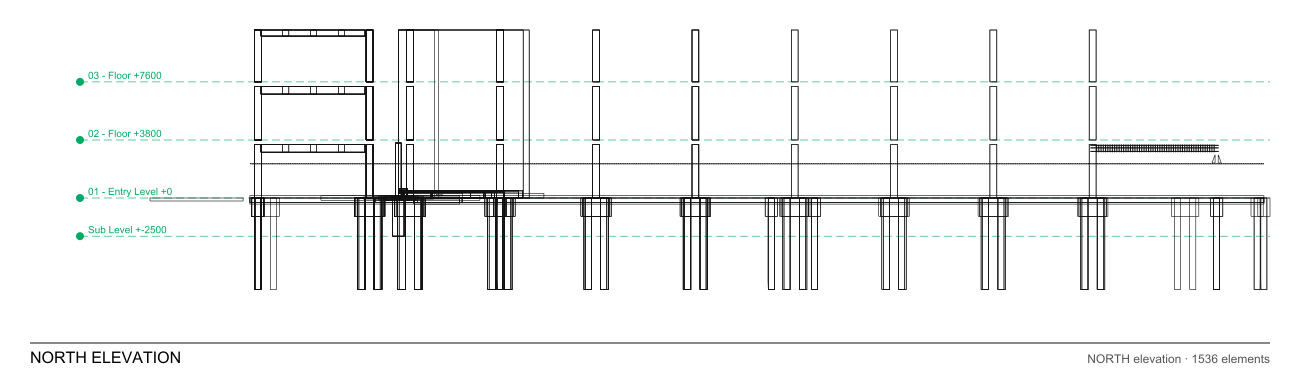
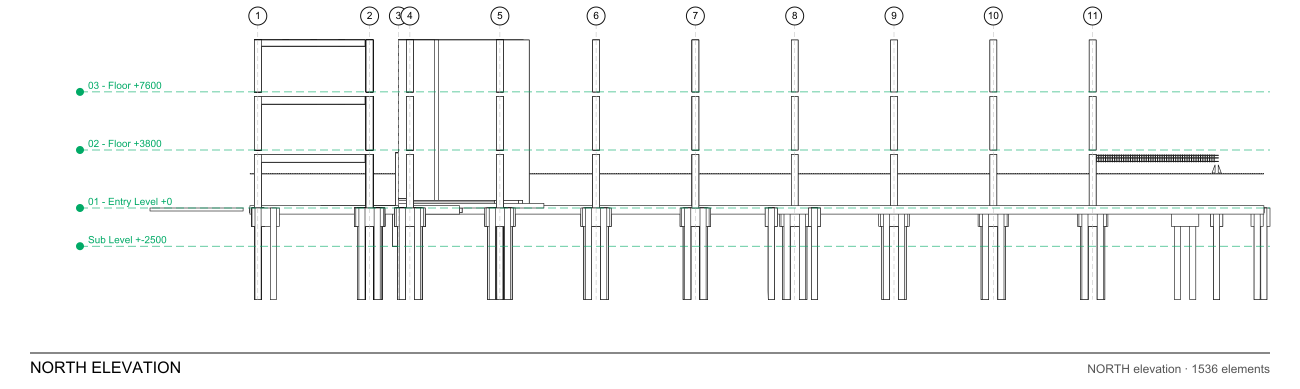
Elevations: hidden-line removal + grid bubbles
- drawings.py: elevation now uses a depth-sorted painter's algorithm (opaque white
  silhouettes; nearer elements occlude farther ones) for hidden-line removal, and
  draws grid bubbles (numbered for N/S, lettered for E/W) aligned to the derived
  column grid, plus the storey level datums on top. Top margin added for bubbles.
- docs/img/elevation_north.png regenerated; capability-matrix updated (HLR done).

Verified: north elevation renders the structural frame solid with hidden lines
removed, grid 1-11 over the columns, 4 storey levels.

diff --git a/services/data/src/aec_data/drawings.py b/services/data/src/aec_data/drawings.py
@@ -257,18 +257,19 @@ def plan_svg(model: ifcopenshell.file, elevation: float, cut_height: float = 1.2
 
 
 # --- elevations (orthographic outline projections) --------------------------
-# direction -> (projected horizontal axis, vertical axis=Z, flip horizontal?)
+# direction -> (kept axes, flip horizontal?, depth axis, near sign)
 _DIRS = {
-    "north": ((0, 2), False), "south": ((0, 2), True),   # look along Y, draw X/Z
-    "east": ((1, 2), True), "west": ((1, 2), False),     # look along X, draw Y/Z
+    "north": ((0, 2), False, 1, +1), "south": ((0, 2), True, 1, -1),   # look along Y, draw X/Z
+    "east": ((1, 2), True, 0, +1), "west": ((1, 2), False, 0, -1),     # look along X, draw Y/Z
 }
 
 
-def elevation_outlines(meshes, direction: str):
-    """Element silhouettes (convex hull of projected vertices) for an orthographic view."""
+def elevation_outlines(meshes, direction: str, with_depth: bool = False):
+    """Element silhouettes (convex hull of projected vertices). With with_depth, also returns
+    a painter's-algorithm sort key (far→near) per element for hidden-line removal."""
     from shapely.geometry import MultiPoint
 
-    axes, flip = _DIRS.get(direction, _DIRS["north"])
+    axes, flip, depth_axis, near = _DIRS.get(direction, _DIRS["north"])
     outs = []
     for _cls, mesh in meshes:
         pts = mesh.vertices[:, axes]
@@ -276,11 +277,16 @@ def elevation_outlines(meshes, direction: str):
             continue
         try:
             hull = MultiPoint(pts).convex_hull
-            if hull.geom_type == "Polygon":
-                coords = np.asarray(hull.exterior.coords)
-                if flip:
-                    coords = coords.copy()
-                    coords[:, 0] = -coords[:, 0]
+            if hull.geom_type != "Polygon":
+                continue
+            coords = np.asarray(hull.exterior.coords)
+            if flip:
+                coords = coords.copy()
+                coords[:, 0] = -coords[:, 0]
+            if with_depth:
+                depth = near * float(mesh.vertices[:, depth_axis].mean())  # larger = nearer
+                outs.append((coords, depth))
+            else:
                 outs.append(coords)
         except Exception:
             pass
@@ -288,19 +294,21 @@ def elevation_outlines(meshes, direction: str):
 
 
 def elevation_svg(meshes, direction: str, levels: list[dict], title: str,
-                  width: int = 1300) -> str:
-    outs = elevation_outlines(meshes, direction)
-    if not outs:
+                  width: int = 1300, hidden_line: bool = True, grid: dict | None = None) -> str:
+    items = elevation_outlines(meshes, direction, with_depth=True)
+    if not items:
         return to_svg([], title=title, subtitle="no geometry")
+    items.sort(key=lambda it: it[1])  # far → near (painter's algorithm)
+    outs = [c for c, _ in items]
     allp = np.vstack(outs)
     mn, mx = allp.min(axis=0), allp.max(axis=0)
     span = np.maximum(mx - mn, 1e-6)
-    gutter, pad = 120, 30
+    gutter, pad, top = 120, 30, 40  # `top` leaves room for grid bubbles
     draw_w = width - 2 * pad - gutter
     scale = draw_w / span[0]
     draw_h = span[1] * scale
-    height = int(draw_h + 2 * pad + 60)
-    ox, oy = pad + gutter, pad
+    height = int(draw_h + pad + top + 60)
+    ox, oy = pad + gutter, top
 
     def T(x, z):
         return ox + (x - mn[0]) * scale, oy + draw_h - (z - mn[1]) * scale
@@ -309,8 +317,29 @@ def elevation_svg(meshes, direction: str, levels: list[dict], title: str,
            f'<svg xmlns="http://www.w3.org/2000/svg" width="{width}" height="{height}" '
            f'viewBox="0 0 {width} {height}"><rect width="{width}" height="{height}" fill="#fff"/>']
 
-    # storey level lines (Z) — standard elevation annotation
-    flip = _DIRS.get(direction, _DIRS["north"])[1]
+    # geometry first — painter's algorithm: opaque white fill so nearer silhouettes
+    # occlude farther edges (hidden-line removal)
+    fill = "#fff" if hidden_line else "none"
+    for poly in outs:
+        pp = " ".join(f"{T(p[0], p[1])[0]:.1f},{T(p[0], p[1])[1]:.1f}" for p in poly)
+        out.append(f'<polygon points="{pp}" fill="{fill}" stroke="#111" stroke-width="0.6"/>')
+
+    # grid bubbles on top: N/S elevations show the numbered (X) grid, E/W the lettered (Y)
+    _, gflip, depth_axis, _ = _DIRS.get(direction, _DIRS["north"])
+    if grid:
+        glines = grid["x"] if depth_axis == 1 else grid["y"]   # depth Y → horizontal X
+        for g, label in glines:
+            h = -g if gflip else g
+            if h < mn[0] - 0.5 or h > mx[0] + 0.5:
+                continue
+            gx, _ = T(h, mn[1])
+            out.append(f'<line x1="{gx:.1f}" y1="{oy-24:.1f}" x2="{gx:.1f}" y2="{oy+draw_h:.1f}" '
+                       f'stroke="#bbb" stroke-width="0.5" stroke-dasharray="5 3"/>')
+            out.append(f'<circle cx="{gx:.1f}" cy="{oy-24:.1f}" r="9" fill="#fff" stroke="#111"/>'
+                       f'<text x="{gx:.1f}" y="{oy-21:.1f}" text-anchor="middle" '
+                       f'font-family="sans-serif" font-size="10" font-weight="700">{label}</text>')
+
+    # storey level lines (Z) drawn on top — standard elevation annotation
     for lv in levels:
         z = lv["elevation"]
         if z < mn[1] - 0.1 or z > mx[1] + 0.1:
@@ -321,10 +350,6 @@ def elevation_svg(meshes, direction: str, levels: list[dict], title: str,
         out.append(f'<circle cx="{ox-70:.1f}" cy="{ly:.1f}" r="4" fill="#0a6"/>'
                    f'<text x="{ox-62:.1f}" y="{ly-3:.1f}" font-family="sans-serif" font-size="10" '
                    f'fill="#0a6">{lv["name"]}  +{z*1000:.0f}</text>')
-
-    for poly in outs:
-        pp = " ".join(f"{T(p[0], p[1])[0]:.1f},{T(p[0], p[1])[1]:.1f}" for p in poly)
-        out.append(f'<polyline points="{pp}" fill="none" stroke="#111" stroke-width="0.6"/>')
 
     ty = height - 24
     out.append(f'<line x1="{pad}" y1="{ty-12}" x2="{width-pad}" y2="{ty-12}" stroke="#111" stroke-width="1"/>'
@@ -338,7 +363,8 @@ def elevation_svg(meshes, direction: str, levels: list[dict], title: str,
 def elevation(model: ifcopenshell.file, direction: str = "north", title: str | None = None) -> str:
     meshes = bake(model)
     levels = storey_elevations(model)
-    return elevation_svg(meshes, direction, levels, title or f"{direction.upper()} ELEVATION")
+    grid = grid_from_meshes(meshes)
+    return elevation_svg(meshes, direction, levels, title or f"{direction.upper()} ELEVATION", grid=grid)
 
 
 def section_svg(model: ifcopenshell.file, axis: str, offset: float, title: str = "SECTION") -> str:

diff --git a/docs/capability-matrix.md b/docs/capability-matrix.md
@@ -68,7 +68,11 @@ real structural + architectural discipline frags loaded together. `POST /project
   silhouettes + storey level lines. `GET /drawings/elevation.svg?direction=`.
 - ~~Grid on sheet cells~~ ✅ done — composed sheet plan cells now carry grid bubbles, grid
   lines, and overall dimensions (per-cell transform via drawing primitives, SVG + PDF).
-- **Room tags / leaders**: text annotations bound to elements on the views.
-- **Hidden-line removal**: elevations are outline silhouettes (no depth sorting yet).
+- ~~Hidden-line removal~~ ✅ done — elevations use a depth-sorted painter's algorithm
+  (opaque silhouettes; nearer occludes farther) + grid bubbles + level datums.
+- **Room tags / leaders**: needs `IfcSpace` (architectural model; only its `.frag` is published
+  for this sample, not the IFC) — wire once an arch IFC is available.
+- **Grid on section/elevation *sheet cells***: standalone elevations/sections are annotated;
+  composed-sheet cells carry grid on plan cells so far.
 - **Federation UI**: a discipline picker to load several `.frag` and toggle by model.
 - **Authoring in-browser**: stays a Bonsai-bridge concern by design (GPL boundary).